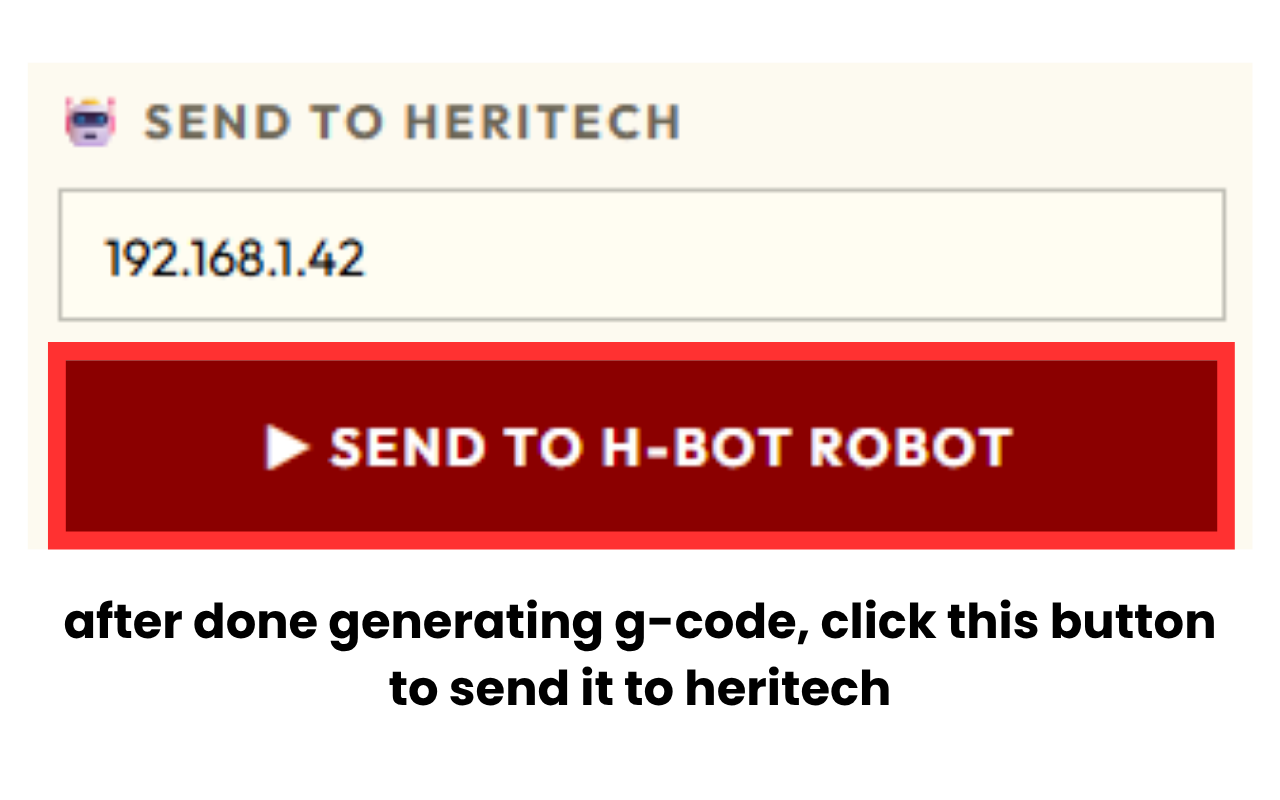
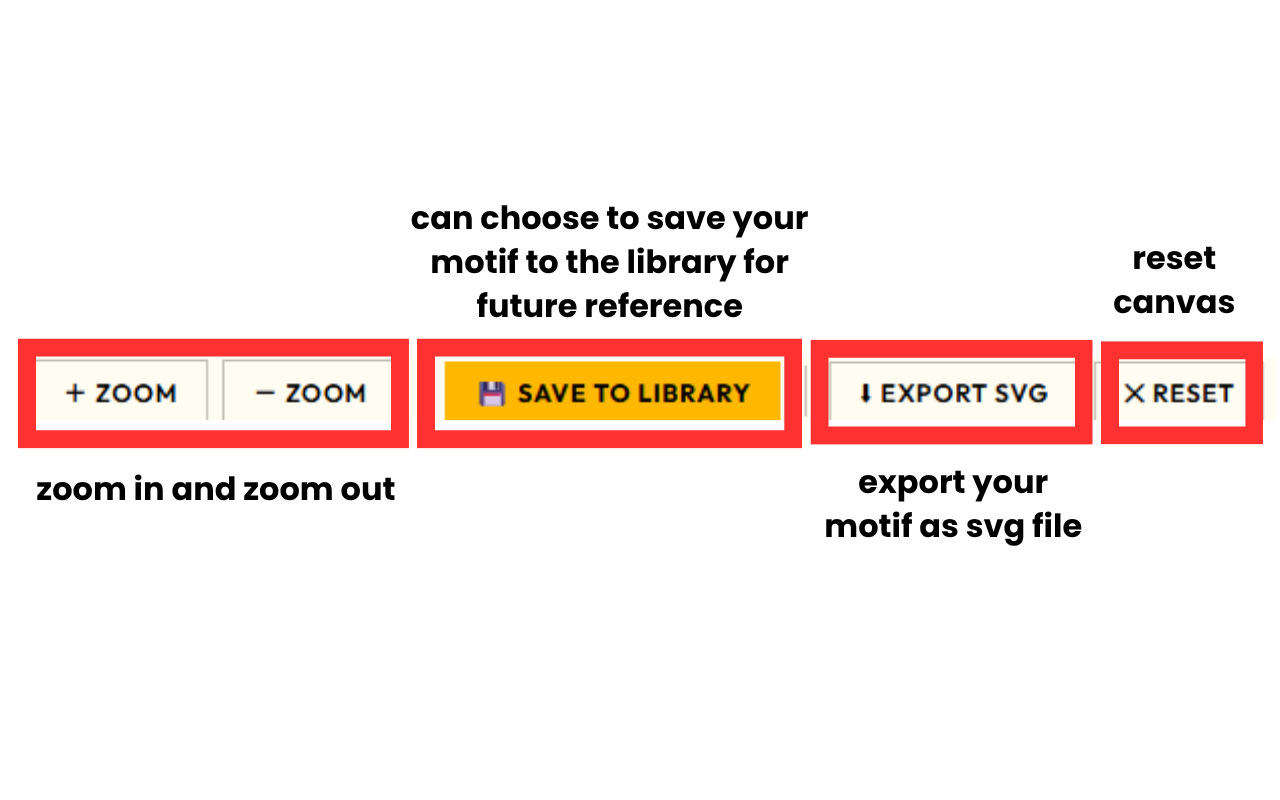
d

diff --git a/app/index.html b/app/index.html
@@ -922,8 +922,7 @@ input[type=range]::-webkit-slider-thumb {
           <div class="tutorial-img-slot">
             <img src="first.png" alt="Welcome">
           </div>
-          <h2 class="tutorial-title">Welcome to HeriTech Pattern Studio</h2>
-          <p class="tutorial-text">Design traditional motifs, save them to your Heritage Library, and send them straight to your robot.</p>
+          <h2 class="tutorial-title">Our Heritage Library</h2>
         </div>
 
         <!-- PAGE 2 -->
@@ -931,8 +930,7 @@ input[type=range]::-webkit-slider-thumb {
           <div class="tutorial-img-slot">
             <img src="second.png" alt="Welcome">
           </div>
-          <h2 class="tutorial-title">Switch to Draw Mode</h2>
-          <p class="tutorial-text">Click the "Draw" tab on the left panel to access the pen, line, and eraser tools.</p>
+          <h2 class="tutorial-title">Draw Mode</h2>
         </div>
 
         <!-- PAGE 3 -->
@@ -940,28 +938,23 @@ input[type=range]::-webkit-slider-thumb {
           <div class="tutorial-img-slot">
             <img src="third.png" alt="Welcome">
           </div>
-          <h2 class="tutorial-title">Draw Your Motif</h2>
-          <p class="tutorial-text">Use the canvas to sketch your pattern. Try Mirror mode for symmetrical HeriTech designs.</p>
+          <h2 class="tutorial-title">Toolbar</h2>
         </div>
 
         <!-- PAGE 4 -->
         <div class="tutorial-page">
           <div class="tutorial-img-slot">
-            <!-- 📸 INSERT TUTORIAL IMAGE 4 HERE -->
-            <span class="slot-label">Image 4</span>
+            <img src="forth.png" alt="Welcome">
           </div>
-          <h2 class="tutorial-title">Save to Your Library</h2>
-          <p class="tutorial-text">Click "Save to Library", give your motif a name, and it appears as a card you can reload anytime.</p>
+          <h2 class="tutorial-title">Generate G-Code</h2>
         </div>
 
         <!-- PAGE 5 -->
         <div class="tutorial-page">
           <div class="tutorial-img-slot">
-            <!-- 📸 INSERT TUTORIAL IMAGE 5 HERE -->
-            <span class="slot-label">Image 5</span>
+            <img src="fifth.png" alt="Welcome">
           </div>
-          <h2 class="tutorial-title">Generate & Send G-Code</h2>
-          <p class="tutorial-text">Click "Generate G-Code", enter your robot's IP address, then press "Send to Robot" to start drawing.</p>
+          <h2 class="tutorial-title">Send G-Code to HeriTech</h2>
         </div>
 
         <!-- PAGE 6 — VIDEO DEMO -->